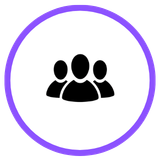
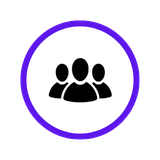
Restore the community category-disc marker from the current build
Claude-Session: https://claude.ai/code/session_01LwCw8zXjzKeXJBoiADAknv

diff --git a/frontend/lib/features/map/providers/map_provider.dart b/frontend/lib/features/map/providers/map_provider.dart
@@ -51,6 +51,7 @@ import 'package:hazard_app/features/shared/providers/hazard_item_provider.dart';
 import 'package:hazard_app/features/shared/providers/service_providers.dart';
 import 'package:hazard_app/features/shared/services/hazard_service.dart';
 import 'package:hazard_app/features/shared/utils/location_helper.dart';
+import 'package:hazard_app/features/shared/views/widgets/category_glyph.dart';
 import 'package:hazard_app/others/app_colors.dart';
 import 'package:widget_to_marker/widget_to_marker.dart';
 import 'package:hazard_app/features/shared/providers/community_safety_provider.dart';
@@ -2058,33 +2059,44 @@ class MapProvider extends StateNotifier<MapProviderState> {
   /// Cache of community category discs, one per category.
   final Map<String, BitmapDescriptor> _communityDiscBitmapCache = {};
 
-  /// Draws (and caches) the community pin from the supplied community
-  /// artwork (product owner, 14 Oct 2026): one circle per category group,
-  /// each in its own category colour, loaded from the bundled
-  /// `{group}_user.png`. A community report wears its category group, never
-  /// a band colour, so it can never be mistaken for an official alert.
+  /// Draws (and caches) the community pin: the category disc (product
+  /// owner, 12 Oct 2026), a 30 px circle in the category colour with a
+  /// 2.5 px white ring and the category's white glyph, the same picture
+  /// [CategoryGlyph] draws on the chips and the cards. A community report
+  /// wears its category, never a band colour.
   Future<BitmapDescriptor?> _getCommunityDiscBitmap(final Hazard hazard) async {
     final category = hazard.category;
     if (category == null) return null;
-    final group = category.parent?.id ?? category.id;
-    final cached = _communityDiscBitmapCache[group];
+    // A child category (say "bushfire") has no glyph of its own; the
+    // parent's glyph and colour are the ones the chips show.
+    final parent = category.parent;
+    final drawn = CategoryGlyph.iconFor(category.name) == null && parent != null
+        ? parent
+        : category;
+    final cacheKey = drawn.id;
+    final cached = _communityDiscBitmapCache[cacheKey];
     if (cached != null) return cached;
 
     try {
-      const size = 40.0;
-      final bitmap = await Image.asset(
-        'assets/images/hazards/non_aws/${group}_user.png',
-        width: size,
-        height: size,
-        fit: BoxFit.contain,
-      ).toBitmapDescriptor(
-        logicalSize: const Size(size, size),
-        imageSize: const Size(size * 2.5, size * 2.5),
+      const size = 30.0;
+      // Room for the ring so the disc is not clipped at the bitmap edge.
+      const canvas = size + 4.0;
+      final widget = Center(
+        child: CategoryGlyph(
+          category: drawn,
+          size: size,
+          borderColor: AppColors.white,
+          borderWidth: 2.5,
+        ),
       );
-      _communityDiscBitmapCache[group] = bitmap;
+      final bitmap = await widget.toBitmapDescriptor(
+        logicalSize: const Size(canvas, canvas),
+        imageSize: const Size(canvas * 2.5, canvas * 2.5),
+      );
+      _communityDiscBitmapCache[cacheKey] = bitmap;
       return bitmap;
     } catch (_) {
-      // A missing picture falls back to the pin set, never a missing marker.
+      // A failed disc falls back to the pin set, never a missing marker.
       return null;
     }
   }

diff --git a/frontend/CLAUDE.md b/frontend/CLAUDE.md
@@ -7,10 +7,8 @@ explicit instruction from the product owner in the current session.
 
 - Band colours: Info #8A93A0, Monitor #F5C518, Action #F07E1B, Critical #DA1F2D.
 - Shapes carry the SOURCE system, five of them: AWS triangle, official
-  diamond, global-humanitarian shape, community badge, ALRT
-  shield. Community (14 Oct 2026): a community report wears the supplied
-  `{group}_user.png` circle in its category group colour, never a band
-  colour. The shield never writes the band word and never restates or
+  diamond, global-humanitarian rounded square, community circle, ALRT
+  shield. The shield never writes the band word and never restates or
   overrides an official warning. The square is GDACS-style events rated for
   international humanitarian response; it carries the source's own scale
   verbatim (Red/Orange/Green describes likelihood of international aid, not
